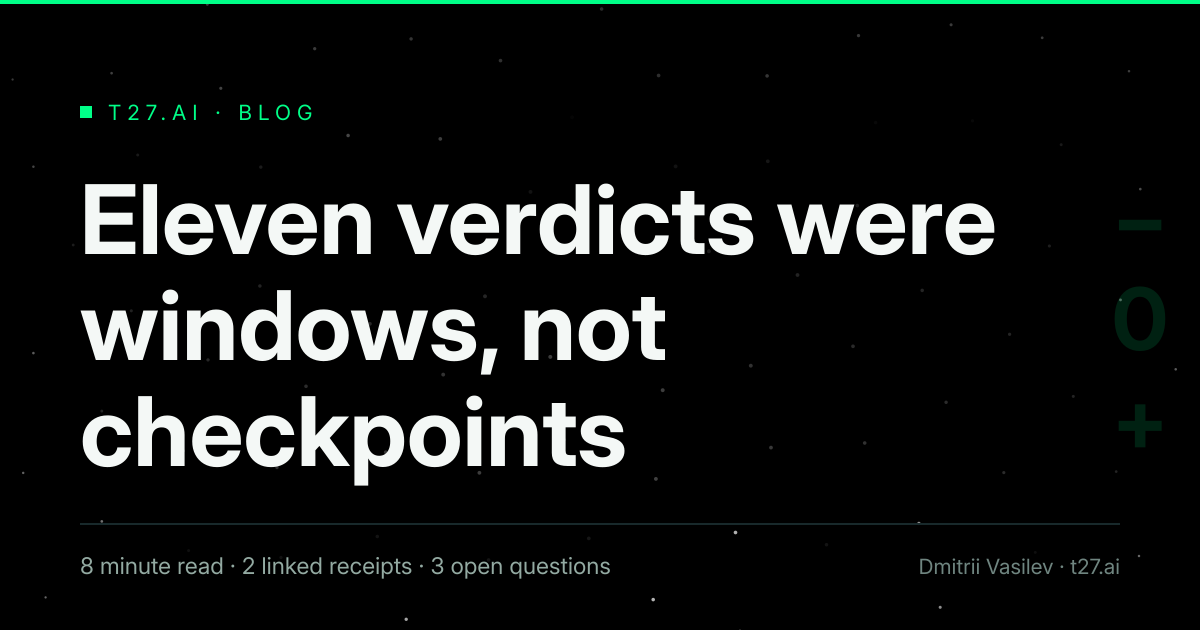
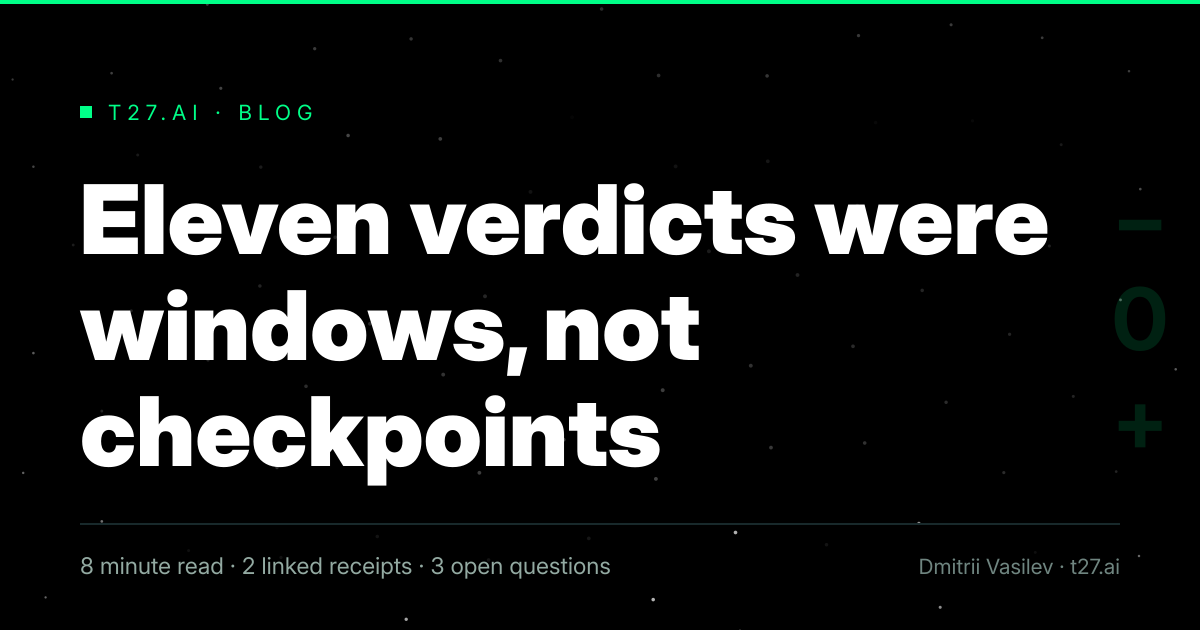
Обложки блога: заголовок весом 900 (#14)
* Обложки блога: заголовок весом 900 вместо 700

Картинка в ленте показывается шириной около 500 px, вес 700 на таком
масштабе теряет контраст к чёрному фону. Вариация Black есть в закреплённом
Inter-Variable, поэтому вес не синтезируется, а берётся из шрифта. Подбор
кегля теперь измеряет строку тем же весом: Black шире Bold, и метрики Bold
пустили бы заголовок за поля.

* Обложки: пересборка растров после нормализации шрифта

---------

Changed region(s): [[0.0617, 0.2714, 0.8942, 0.4222], [0.0617, 0.6032, 0.555, 0.7841], [0.0617, 0.4524, 0.5858, 0.6032]]

diff --git a/regen-blog.py b/regen-blog.py
@@ -52,13 +52,22 @@ W, H = 1200, 630
 INTER = REPO / "fonts" / "Inter-Variable.ttf"
 
 
-def font(size: int, bold: bool):
-    """Открыть закреплённый в репозитории Inter с нужной вариацией."""
+TITLE_VARIATION = "Black"       # вес 900 — тот же, что в SVG заголовка карточки
+
+
+def font(size: int, bold=True):
+    """Открыть закреплённый в репозитории Inter с нужной вариацией.
+
+    `bold` принимает и имя вариации строкой. Важно измерять ширину тем же
+    весом, которым строка будет нарисована: Black шире Bold, и подбор
+    кегля по метрикам Bold пустил бы заголовок за поля.
+    """
     from PIL import ImageFont
     if not INTER.is_file():
         raise SystemExit("regen-blog: fonts/Inter-Variable.ttf отсутствует — нельзя менять шрифт молча")
     value = ImageFont.truetype(str(INTER), size)
-    value.set_variation_by_name("Bold" if bold else "Regular")
+    name = bold if isinstance(bold, str) else ("Bold" if bold else "Regular")
+    value.set_variation_by_name(name)
     return value
 
 
@@ -122,7 +131,7 @@ def fit_title(title: str, lang: str) -> tuple:
     draw = ImageDraw.Draw(Image.new("RGB", (10, 10)))
     limit = 1010
     for size in (96, 84, 74, 64, 56):
-        f = font(size, True)
+        f = font(size, TITLE_VARIATION)
         words, lines, cur = title.split(), [], ""
         for w in words:
             cand = f"{cur} {w}".strip()
@@ -138,7 +147,7 @@ def fit_title(title: str, lang: str) -> tuple:
     # Ничего не подошло: обрезать по последней строке, но не молча — многоточие
     # показывает читателю, что заголовок продолжается в статье.
     size = 56
-    f = font(size, True)
+    f = font(size, TITLE_VARIATION)
     words, lines, cur = title.split(), [], ""
     for w in words:
         cand = f"{cur} {w}".strip()
@@ -230,7 +239,7 @@ def card_svg(post: dict, lang: str) -> str:
         for g, y in (("\u2212", 250), ("0", 350), ("+", 450)))
     body = "".join(
         f'\n  <text x="80" y="{first + i * lead}" font-family="{ff}" font-size="{size}"'
-        f' font-weight="700" fill="#f4f8f6">{esc(line)}</text>'
+        f' font-weight="900" fill="#ffffff">{esc(line)}</text>'
         for i, line in enumerate(lines))
     return (
         f'<svg xmlns="http://www.w3.org/2000/svg" width="{W}" height="{H}"'
